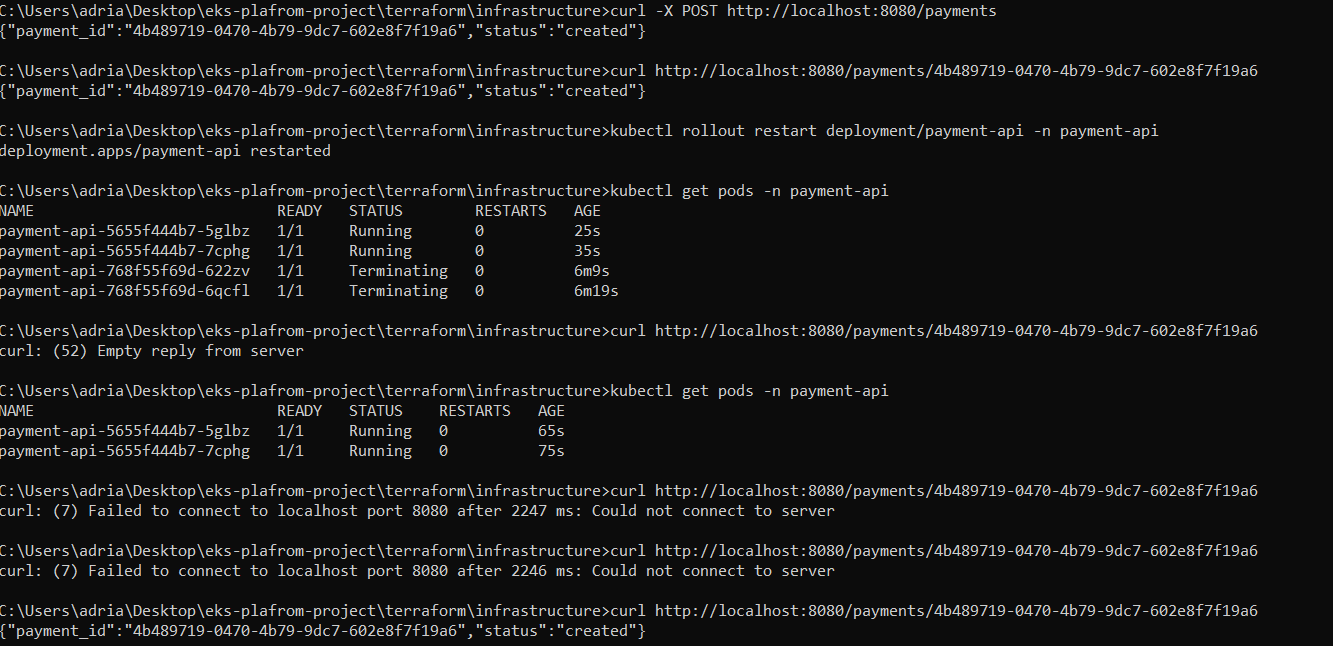
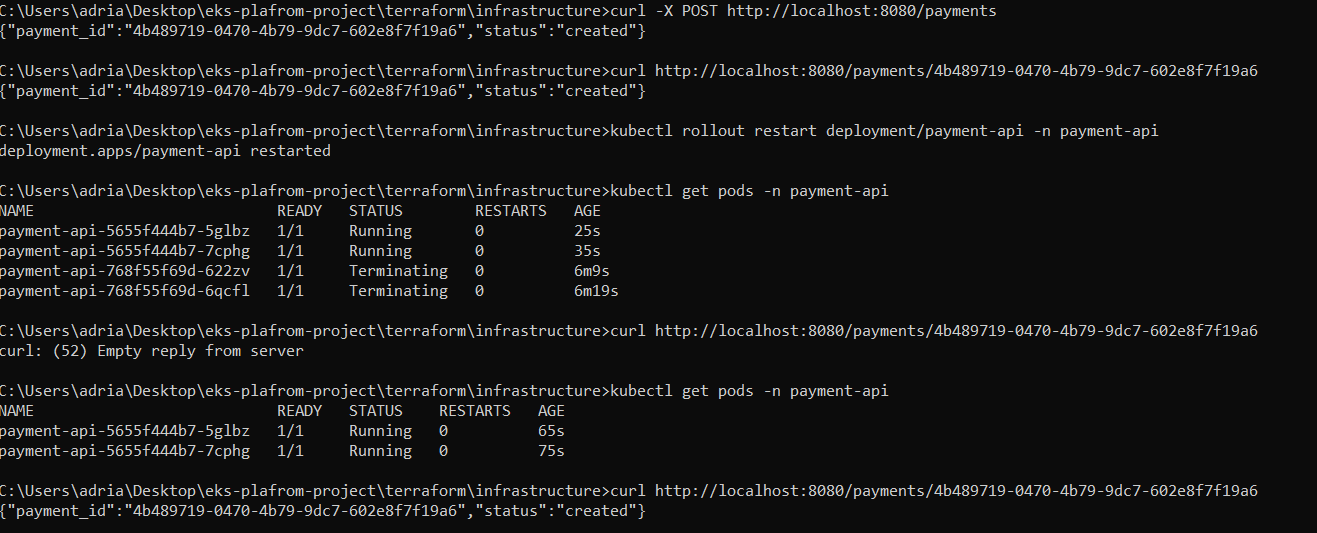
docs: add sprint-03 documentation

Changed region(s): [[0.0, 0.0, 0.9651, 0.5704], [0.0, 0.6004, 0.9651, 0.9906]]

diff --git a/README.md b/README.md
@@ -537,6 +537,272 @@ No manual steps. No AWS credentials on any developer machine. No unscanned image
 
 ---
 
+# Sprint 3 — DynamoDB Integration with IRSA
+
+## Objective
+
+The objective of Sprint 3 was to replace the in-memory storage introduced in Sprint 1 with a persistent, production-grade data layer — and to do so without introducing any static AWS credentials into the application or the cluster.
+
+Before this sprint, payments were stored in a Python dictionary inside the pod. A pod restart meant losing all data. More importantly, any future AWS service integration would require storing AWS credentials somewhere — as environment variables, Kubernetes Secrets, or hardcoded values. Sprint 3 solves both problems at once: DynamoDB provides persistent storage, and IRSA provides the authentication mechanism to access it without any long-lived credentials.
+
+---
+
+## Architecture
+
+```
+POST /payments
+    │
+    ▼
+Flask API (pod)
+    │
+    ├── JWT token mounted at:
+    │   /var/run/secrets/eks.amazonaws.com/serviceaccount/token
+    │
+    ├── boto3 sends token to AWS STS:
+    │   "AssumeRoleWithWebIdentity"
+    │
+    ├── STS verifies token against EKS OIDC Provider
+    │
+    ├── STS returns temporary credentials (1h TTL)
+    │
+    └── boto3 calls DynamoDB PutItem
+            └── data persists across pod restarts
+```
+
+**IRSA trust chain:**
+
+```
+EKS OIDC Provider    ← registered in Sprint 1, used here
+    ↓ issues JWT tokens for pods
+ServiceAccount       ← annotated with IAM Role ARN
+    ↓ pods using this SA get the token automatically
+IAM Role             ← trust policy scoped to this SA + namespace
+    ↓ only this pod in this namespace can assume this role
+IAM Policy           ← GetItem + PutItem on this specific table only
+    ↓ least privilege — nothing else accessible
+DynamoDB Table       ← payment-api-payments
+```
+
+---
+
+## Components Implemented
+
+### DynamoDB Table — `modules/dynamodb/`
+
+A dedicated Terraform module provisions the payments table:
+
+```hcl
+resource "aws_dynamodb_table" "payments" {
+  name         = var.table_name
+  billing_mode = "PAY_PER_REQUEST"
+  hash_key     = "payment_id"
+
+  attribute {
+    name = "payment_id"
+    type = "S"
+  }
+}
+```
+
+`PAY_PER_REQUEST` billing was chosen over provisioned capacity — for a dev/portfolio workload with unpredictable traffic, on-demand billing costs nothing when idle and scales automatically under load. No capacity planning required.
+
+`payment_id` as the hash key means every payment is uniquely addressable by its ID — which maps directly to the `GET /payments/{id}` API endpoint.
+
+### IRSA Module — `modules/irsa/`
+
+A reusable Terraform module that creates an IAM Role with a trust policy scoped to a specific Kubernetes ServiceAccount:
+
+```hcl
+Condition = {
+  StringEquals = {
+    "${oidc_url}:sub" = "system:serviceaccount:payment-api:payment-api"
+    "${oidc_url}:aud" = "sts.amazonaws.com"
+  }
+}
+```
+
+The trust policy uses `StringEquals` (not `StringLike`) — an exact match on both the ServiceAccount name and namespace. A pod in a different namespace with the same ServiceAccount name cannot assume this role. A pod in the same namespace with a different ServiceAccount cannot assume this role.
+
+The IAM Policy attached to the role grants only two DynamoDB operations on the specific table ARN:
+
+```json
+{
+  "Action": ["dynamodb:GetItem", "dynamodb:PutItem"],
+  "Resource": "arn:aws:dynamodb:eu-central-1:ACCOUNT:table/payment-api-payments"
+}
+```
+
+No `Scan`, no `DeleteItem`, no `UpdateItem`, no access to other tables. This is least privilege at the pod level — something not achievable with node IAM roles.
+
+The module is designed to be reusable — any future service that needs AWS access gets its own IRSA module invocation with its own scoped role.
+
+### EKS Access Entries — moved to Terraform
+
+A recurring operational issue (detailed in Challenges) led to moving EKS Access Entries into Terraform:
+
+```hcl
+access_config {
+  authentication_mode = "API_AND_CONFIG_MAP"
+}
+
+resource "aws_eks_access_entry" "github_actions" { ... }
+resource "aws_eks_access_entry" "admin" { ... }
+```
+
+Every `terraform apply` now automatically configures cluster access for both the CI/CD pipeline and the local operator. No manual CLI commands required after provisioning.
+
+### ServiceAccount — annotated for IRSA
+
+The `payment-api` ServiceAccount created empty in Sprint 1 now has the IRSA annotation:
+
+```yaml
+annotations:
+  eks.amazonaws.com/role-arn: arn:aws:iam::ACCOUNT:role/payment-api-eks-payment-api-role
+```
+
+This single annotation is the only Kubernetes-side change needed to enable IRSA. EKS automatically detects it at pod start and:
+- mounts the JWT token at `/var/run/secrets/eks.amazonaws.com/serviceaccount/token`
+- injects `AWS_ROLE_ARN` and `AWS_WEB_IDENTITY_TOKEN_FILE` environment variables
+
+No changes to the Deployment spec were needed — the ServiceAccount was already referenced there since Sprint 1.
+
+### Flask Application — DynamoDB integration
+
+The in-memory dictionary was replaced with boto3 DynamoDB calls:
+
+```python
+dynamodb = boto3.resource("dynamodb", region_name=os.getenv("AWS_REGION"))
+table = dynamodb.Table(os.getenv("DYNAMODB_TABLE", "payment-api-payments"))
+
+# POST /payments
+table.put_item(Item={"payment_id": payment_id, "status": "created"})
+
+# GET /payments/{id}
+response = table.get_item(Key={"payment_id": payment_id})
+```
+
+boto3 automatically discovers credentials through the AWS credential provider chain. When `AWS_WEB_IDENTITY_TOKEN_FILE` is present (injected by EKS via IRSA), boto3 uses it to obtain temporary STS credentials. No explicit credential configuration in the application code — the infrastructure handles authentication transparently.
+
+---
+
+## Why Node IAM Role Was Not Used
+
+The simplest way to give the application DynamoDB access would have been adding a DynamoDB policy to the node IAM role. This was deliberately rejected:
+
+```
+Node IAM Role approach:
+  Every pod on the node gets DynamoDB access
+  → prometheus pods, coredns pods, system pods
+  → any compromised pod on the node has database access
+
+IRSA approach:
+  Only the payment-api pod with the payment-api ServiceAccount
+  in the payment-api namespace gets DynamoDB access
+  → blast radius of a compromised pod is limited to one table
+  → two operations only: GetItem and PutItem
+```
+
+IRSA enables least privilege at the pod level. Node IAM roles enable least privilege at the node level — a much coarser granularity that is insufficient for production security requirements.
+
+---
+
+## Validation
+
+### IRSA active — environment variables injected by EKS
+
+![IRSA Env Vars](docs/sprint-03-env-var-irsa.png)  
+*`AWS_ROLE_ARN` and `AWS_WEB_IDENTITY_TOKEN_FILE` injected automatically by EKS when the ServiceAccount has the IRSA annotation. No static credentials anywhere in the pod.*
+
+### ServiceAccount with IRSA annotation
+
+![ServiceAccount](docs/sprint-03-service-account.png)  
+*ServiceAccount annotated with the IAM Role ARN. This single annotation connects the Kubernetes identity layer to the AWS IAM layer.*
+
+### Persistence test — data survives pod restart
+
+![Persistence Test](docs/sprint-03-persistence-test.png)  
+*Payment created, pod restarted with `kubectl rollout restart`, payment retrieved successfully after restart. In-memory storage would have returned 404 — DynamoDB returns the original record.*
+
+### DynamoDB Console — records visible
+
+![DynamoDB Console](docs/sprint-03-dynamodb-console.png)  
+*Two payment records in the DynamoDB table. Data written by the Flask API through IRSA credentials, visible in AWS Console independently of any pod state.*
+
+---
+
+## Challenges Encountered
+
+### EKS Access Entries lost after terraform destroy
+
+After every `terraform destroy` and `terraform apply` cycle, the EKS cluster was recreated without any Access Entries. Both the local operator and GitHub Actions lost cluster access — requiring manual CLI commands to restore it each time.
+
+The root cause: EKS in `API_AND_CONFIG_MAP` authentication mode does not automatically grant the cluster creator any access. Every principal must be explicitly defined through Access Entries. This is a deliberate security design — but it means the infrastructure code must be complete.
+
+The fix was adding Access Entry resources directly to the EKS Terraform module:
+
+```hcl
+resource "aws_eks_access_entry" "admin" {
+  cluster_name  = aws_eks_cluster.main.name
+  principal_arn = var.admin_user_arn
+}
+
+resource "aws_eks_access_policy_association" "admin" {
+  cluster_name  = aws_eks_cluster.main.name
+  principal_arn = var.admin_user_arn
+  policy_arn    = "arn:aws:eks::aws:cluster-access-policy/AmazonEKSClusterAdminPolicy"
+  access_scope  { type = "cluster" }
+}
+```
+
+From this point forward, `terraform apply` produces a fully accessible cluster with no manual steps required.
+
+The lesson: infrastructure that requires manual post-provisioning steps is incomplete infrastructure. If a step is required every time, it belongs in Terraform.
+
+### ServiceAccount annotation not applied — pipeline deployed stale manifest
+
+After adding the IRSA annotation to `serviceaccount.yaml` and pushing, the pipeline ran successfully but the pod was missing `AWS_ROLE_ARN` in its environment. IRSA was not active.
+
+The root cause was a timing issue: the namespace `payment-api` did not exist when the pipeline first ran. `kubectl apply -f k8s/` partially succeeded — some resources were created, some were not. On subsequent runs the namespace existed, but `serviceaccount/payment-api` was already in the cluster from the partial first run — created without the annotation. `kubectl apply` updates existing resources but does not force-recreate them, so the stale ServiceAccount without the annotation remained.
+
+The fix was applying the ServiceAccount manually to force the update:
+
+```bash
+kubectl apply -f k8s/serviceaccount.yaml
+kubectl rollout restart deployment/payment-api -n payment-api
+```
+
+The restart is required because the IRSA token is mounted at pod start — existing pods do not pick up ServiceAccount changes without a restart.
+
+The underlying issue — namespace not existing before the pipeline runs — will be resolved in Sprint 5 when Helm takes over manifest management and handles resource ordering correctly.
+
+---
+
+## Key Lessons Learned
+
+**IRSA and node IAM roles solve different problems.** Node roles give identity to the compute layer — they exist so nodes can join the cluster, pull images, and manage networking. Pod roles give identity to the application layer — they exist so specific workloads can access specific AWS services. Conflating the two by putting application permissions on node roles violates least privilege and creates unnecessary blast radius.
+
+**Infrastructure code must be complete.** Any manual step required after `terraform apply` is a gap in the infrastructure code. Access Entries that need to be added by hand, namespaces that need to be created by hand, kubeconfig that needs to be updated by hand — these are all indications that the Terraform code is incomplete. A correctly provisioned environment should be fully usable immediately after `terraform apply` with no additional steps.
+
+**Pod restarts are required for ServiceAccount changes to take effect.** IRSA credentials are mounted as a projected volume at pod startup. Updating a ServiceAccount annotation does not automatically update running pods — they continue using the token that was mounted when they started. Any IRSA configuration change requires a rollout restart to take effect.
+
+---
+
+## Sprint Outcome
+
+At the end of Sprint 3 the application has a complete AWS integration:
+
+```
+git push
+    → pipeline builds new image
+    → image deployed to EKS
+    → pod starts with IRSA token mounted automatically
+    → boto3 exchanges token for temporary STS credentials
+    → POST /payments writes to DynamoDB
+    → GET /payments/{id} reads from DynamoDB
+    → pod restart does not affect stored data
+```
+
+No static AWS credentials exist anywhere — not in the application code, not in Kubernetes Secrets, not in environment variables. Authentication is entirely handled by the IRSA mechanism established in the infrastructure layer.
 ## Deployment
 
 ### Prerequisites